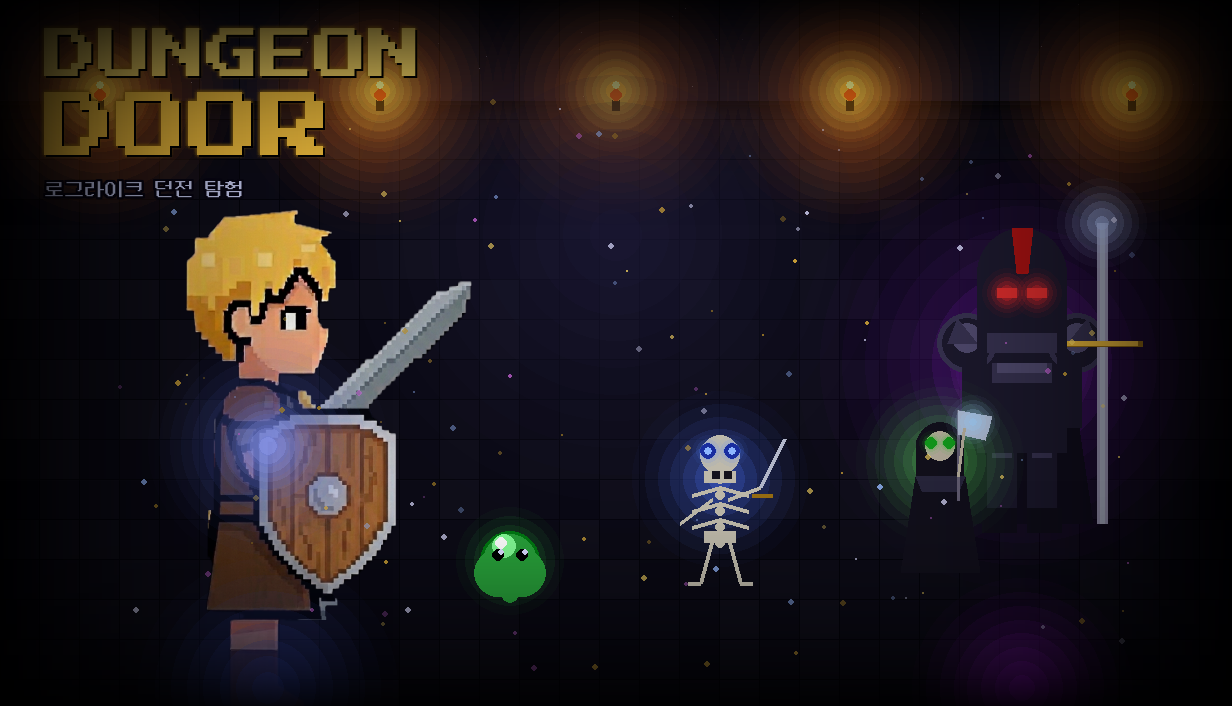
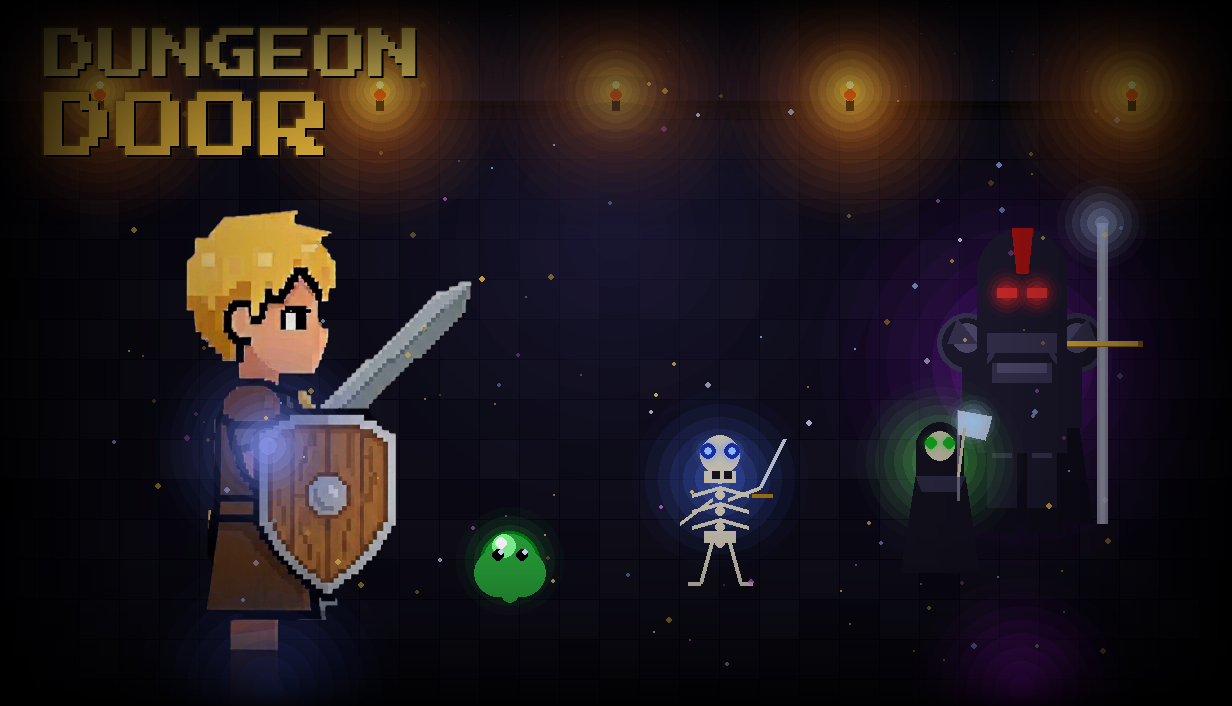
fix: main capsule에서 부제 텍스트 제거 (Steam 심사 통과)
Steam 규정상 캡슐 이미지에 설명 문구 불가.
"로그라이크 던전 탐험" 텍스트 삭제 후 main_capsule.png 재생성.

Changed region(s): [[0.0308, 0.2493, 0.2159, 0.2805]]

diff --git a/make_capsules.py b/make_capsules.py
@@ -445,15 +445,10 @@ def make_main(rng):
                       [(235,185,60),(180,140,40),(255,220,100),
                        (220,220,255),(150,185,255),(200,100,215)])
 
-    # 로고 (좌상단)
+    # 로고 (좌상단) — 타이틀만 허용 (Steam 규정)
     f1, f2 = px(54), px(72)
     txt_glow(surf, "DUNGEON", f1, GOLD_L, GOLD_D, 44, 28)
     txt_glow(surf, "DOOR",    f2, GOLD,   GOLD_D, 44, 28 + f1.get_height() + 10)
-
-    # 부제
-    fs = ko(20)
-    txt_outline(surf, "로그라이크 던전 탐험", fs, (195, 200, 235), (8, 6, 18),
-                44, 28 + f1.get_height() + 10 + f2.get_height() + 14)
 
     draw_vignette(surf, W, H, 225, 0.36)
     return surf